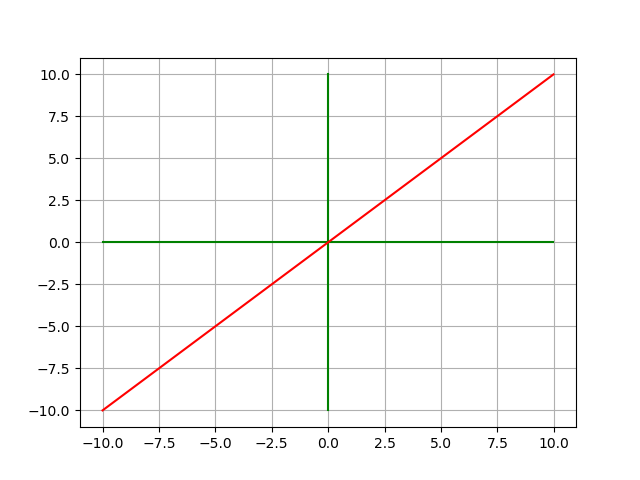
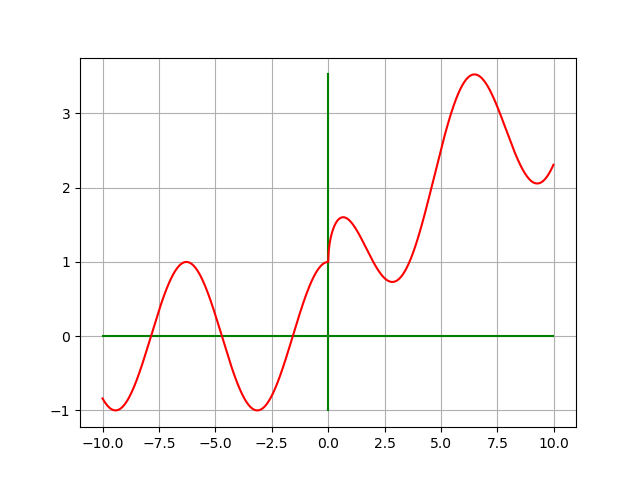
- Almost done - Now you can change plot your function

diff --git a/view/app.py b/view/app.py
@@ -6,9 +6,14 @@ from kivy.uix.relativelayout import RelativeLayout
 from kivy.uix.dropdown import DropDown
 
 from Controler import *
-import time
 
 zooms = [10, 50, 100, 150, 200]
+
+input_str = 'x'
+output_str = 'sin(x)+cos(x)'
+
+
+
 
 
 class ZoomDD(Button):
@@ -20,7 +25,7 @@ class ZoomDD(Button):
         # self.text = 'Zoom'
         for i in zooms:
             strr: str = str(i) + '%'
-            #print(strr)
+            # print(strr)
             btn = Button(text=strr, size_hint_y=None, height=25)
 
             btn.bind(on_press=lambda bt: self.drop.select(bt.text))
@@ -30,7 +35,7 @@ class ZoomDD(Button):
         self.bind(on_release=self.drop.open)
         self.drop.bind(on_select=self.change)
 
-    def change(self, instance, x: str):
+    def change(self, x: str):
         # print(x, instance)
         self.btnnm = x
 
@@ -38,8 +43,12 @@ class ZoomDD(Button):
 class Plot(Widget):
     src = StringProperty("view/plot.png")
 
+    def __init__(self, **kwargs):
+        super().__init__(**kwargs)
+        # self.area = area
+
     def relode(self):
-        self.canvas.ask_update()
+        self.ids.aimg.reload()
 
 
 class PlotArea(RelativeLayout):
@@ -47,15 +56,10 @@ class PlotArea(RelativeLayout):
 
     def __init__(self, **kw):
         super().__init__(**kw)
-        #time.sleep(10)
-        self.input_str = 'x'
-        self.output_str = 'sqrt(x*i)'
-        self.arr = input_function(self.input_str)
-        print(self.arr)
-        transformation(self.output_str, self.arr)
 
     def relode(self):
         self.canvas.ask_update()
+        self.ids.inputplt.relode()
 
 
 class AppView(Widget):
@@ -63,12 +67,34 @@ class AppView(Widget):
 
     def __init__(self, **kwargs):
         super().__init__(**kwargs)
+        self.input_str = '5'
+        self.output_str = 'sin(x)+cos(x)'
+        self.create_plots()
 
     def what_fun(self, string):
         print(string)
 
     def input_read(self, string):
         print('Posia je', string)
+
+    def get_ifun(self, string):
+        if len(string) == 0:
+            return
+        self.output_str = string
+        self.create_plots()
+
+    def get_ofun(self, string):
+        if len(string) == 0:
+            return
+        self.input_str = string
+        self.create_plots()
+
+    def create_plots(self):
+        arr = input_function(self.input_str)
+        transformation(self.output_str, arr)
+        self.canvas.ask_update()
+        self.ids.plot1.relode()
+        self.ids.plot2.relode()
 
 
 class ComplexApp(App):
